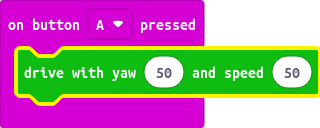
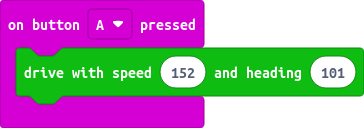
Update main.blocks, main.ts, custom.ts

diff --git a/custom.ts b/custom.ts
@@ -41,7 +41,12 @@ namespace custom {
         }
 
         let messageData: Array<number> = [Math.abs(speed)];
-        let headingArray: Array<number> = sphero.Utilities.int16ToByteArray(heading);
+        //let headingArray: Array<number> = sphero.Utilities.int16ToByteArray(heading);
+        //let headingArray: Array<number> = Buffer.pack('>h', [heading]).toArray(NumberFormat.Int16BE);
+
+        let headingBuffer: Buffer = Buffer.create(2);
+        Buffer.__packUnpackCore('>h',[heading],headingBuffer,true);
+        let headingArray: Array<number> = helpers.bufferToArray(headingBuffer,NumberFormat.Int16BE);
         
         for (let i: number = 0; i < headingArray.length; i++) {
             messageData.push(headingArray[i]);

diff --git a/main.ts b/main.ts
@@ -1,3 +1,3 @@
 input.onButtonPressed(Button.A, function () {
-    custom.driveWithYawNormalized(50, 50)
+    custom.drive(152, 359)
 })
